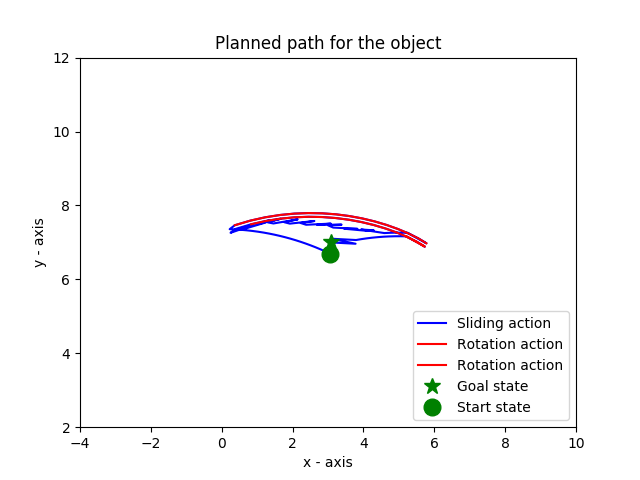
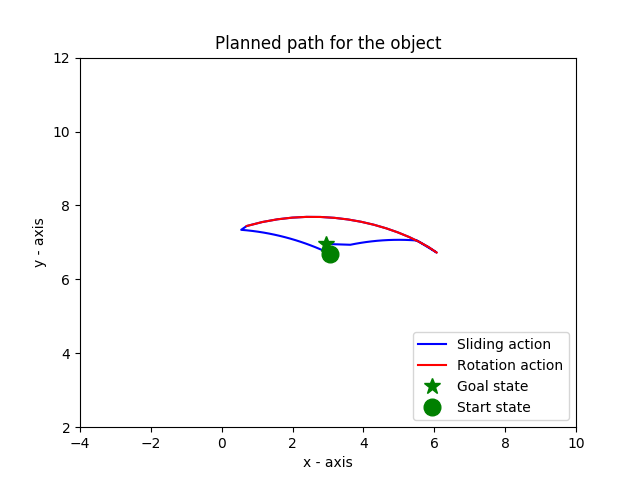
Updated with an example plot

Changed region(s): [[0.3438, 0.4375, 0.6875, 0.5312], [0.6562, 0.6562, 0.875, 0.75]]

diff --git a/Friction_Finger_Gripper_DQN/main.py b/Friction_Finger_Gripper_DQN/main.py
@@ -438,7 +438,7 @@ if __name__ == '__main__':
     
     options=['TRAIN', 'TEST', 'PLOT']
     command= param_list['MODE']
-    # command= 2
+    command= 2
 
     device = torch.device("cuda:0" if torch.cuda.is_available() else "cpu")
     print(device)

diff --git a/Friction_Finger_Gripper_DQN/Readme.md b/Friction_Finger_Gripper_DQN/Readme.md
@@ -9,6 +9,9 @@ Create a virtual environment with python 2.7 and with the following dependencies
 4. sympy
 5. numpy
 6. tensorboard
+7. scipy
+8. random
+9. gym
 
 ## Description of files in this repository:
 - `dqn_agent_HER.py`:Contains the agent description.
@@ -37,6 +40,15 @@ Note: The current action table in the repository can be used for differnet objec
 1. Set the parameters in the params.yaml
 2. Run the main.py
 
+## Example Test plot
+Start Pose: (7.9,7.2,-90)
+Goal Pose: (7.9,7.2,0)
+
+#### DQN policy
+![RL path](https://github.com/gokul-gokz/Friction_finger_gripper_RL/blob/master/New_state_action_space_RL_test/Data/Q-learning/Test2.png)
+
+The path.txt file inside the PLOTS folder stores the path(coordinates in Finger space) in the format of text file.
+ 
 ## Things to do
 1. Remove the global variable and rewrite the code structure in a better way.  
 2. Rewrite parts of the code to make it readable
